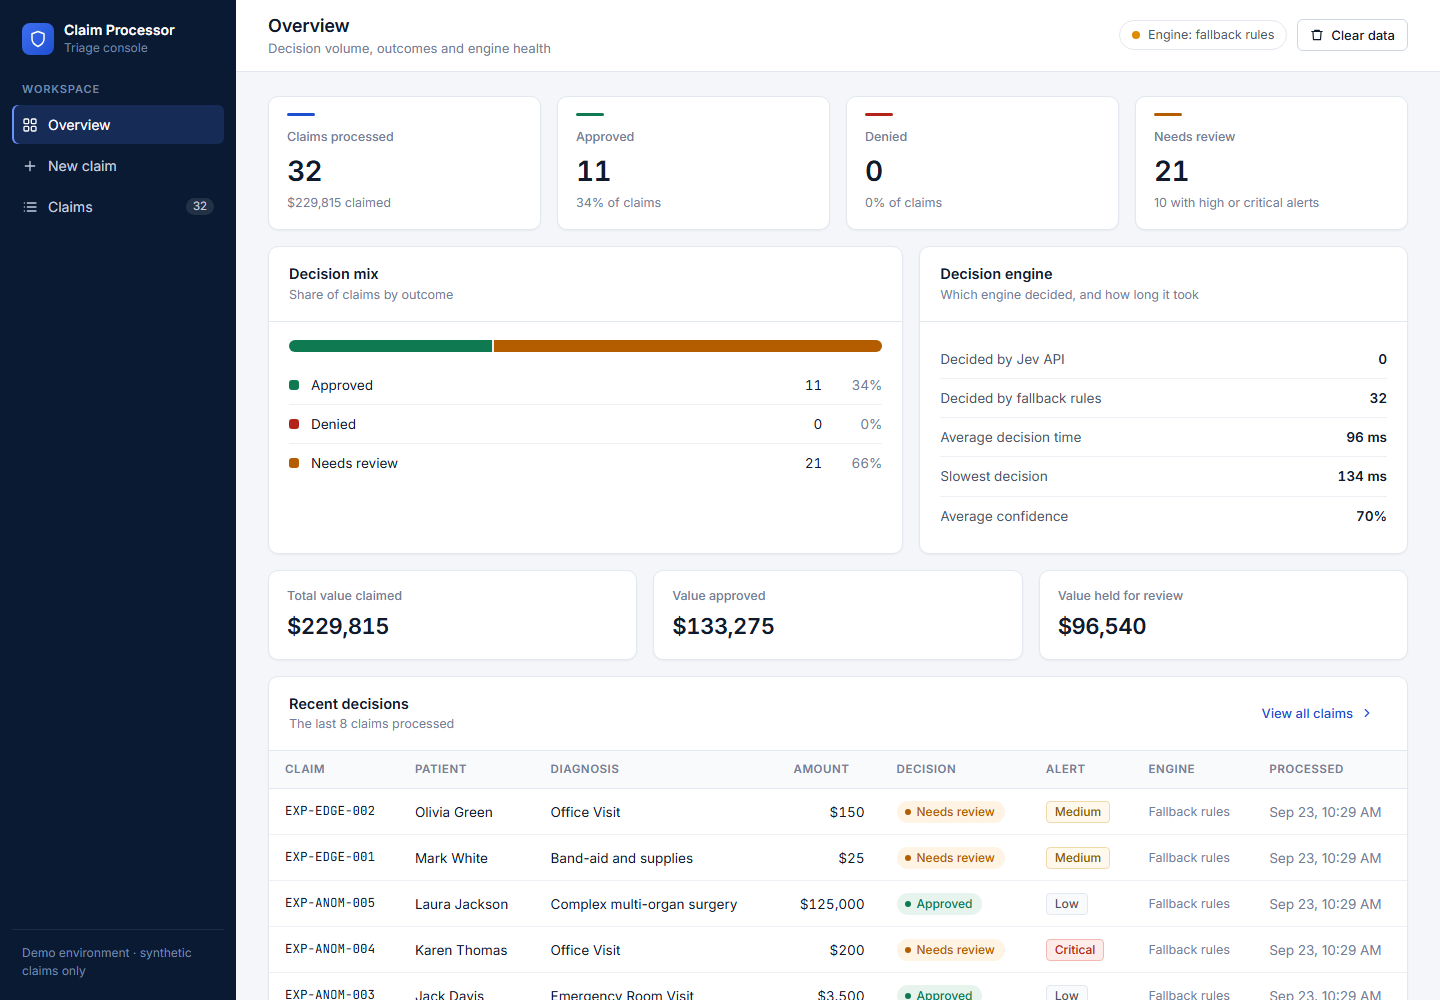
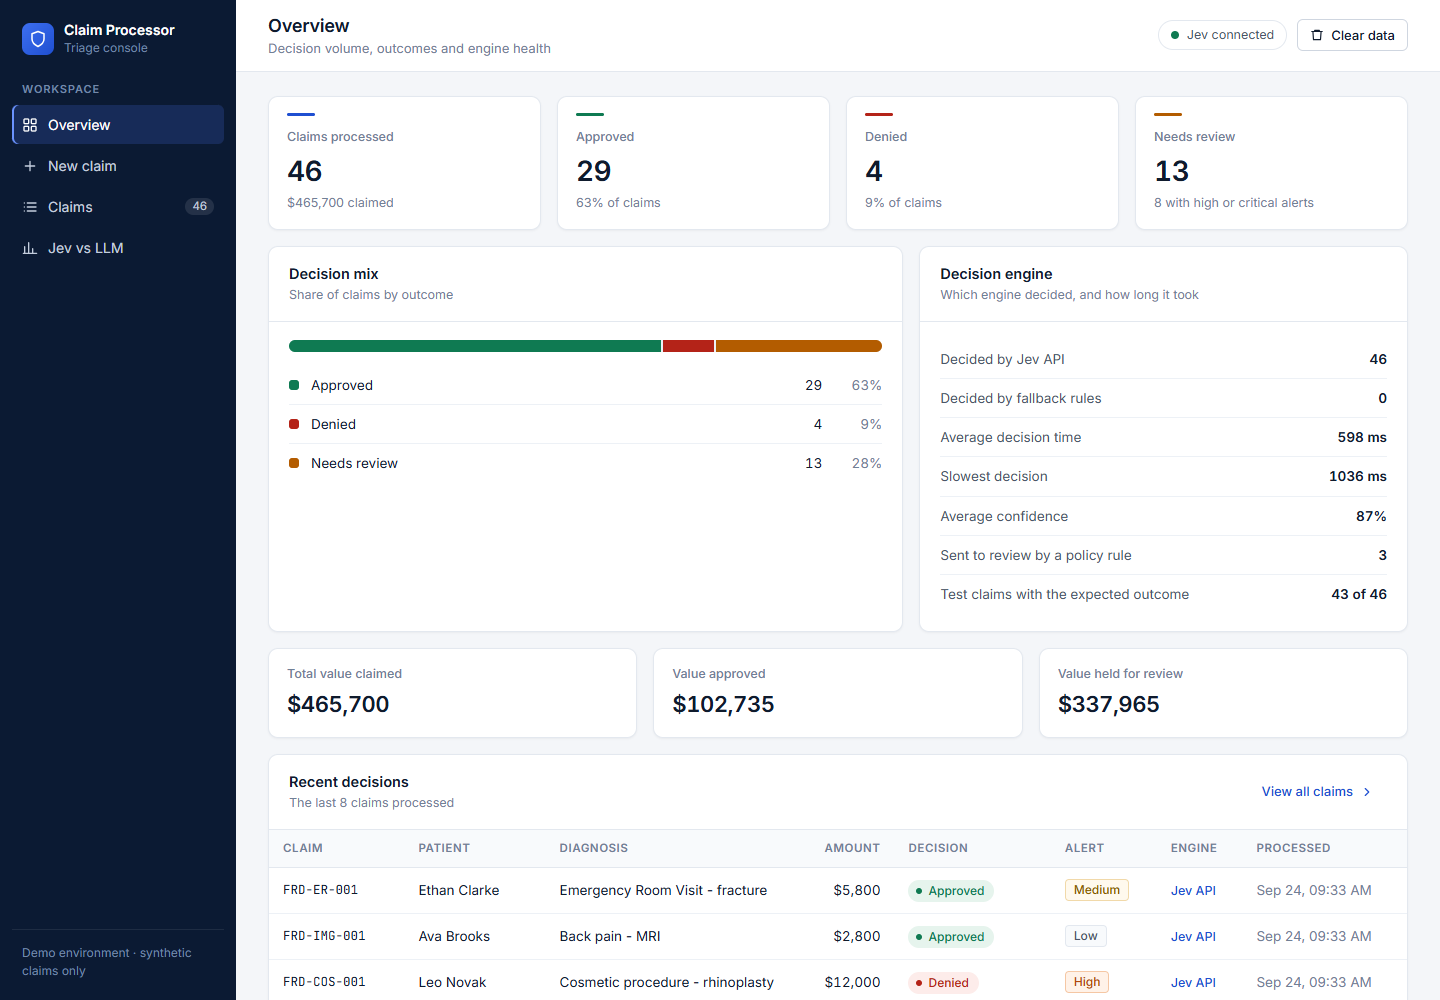
Refresh screenshots; fit claims tables on a laptop screen
- New screenshots of the Overview, an expanded claim on the Claims page,
  and the Jev vs LLM page, added to the README
- Claims table: move the Processed time into the expanded details so the
  table and its details fit at 1440 px without sideways scrolling
- Jev vs LLM claim table: combine latency and cost into Jev / LLM pairs
  with a small sub-label under each header
- Slightly tighter table padding, confidence bar and diagnosis column

diff --git a/frontend/src/index.css b/frontend/src/index.css
@@ -225,11 +225,11 @@ button { font: inherit; }
   text-align: left; white-space: nowrap;
   font-size: 11.5px; font-weight: 600; text-transform: uppercase; letter-spacing: 0.05em;
   color: var(--text-3); background: var(--surface-2);
-  padding: 10px 16px; border-bottom: 1px solid var(--border);
+  padding: 10px 14px; border-bottom: 1px solid var(--border);
 }
-.table td { padding: 11px 16px; border-bottom: 1px solid var(--border-soft); vertical-align: middle; white-space: nowrap; }
+.table td { padding: 11px 14px; border-bottom: 1px solid var(--border-soft); vertical-align: middle; white-space: nowrap; }
 .table tbody tr:last-child td { border-bottom: 0; }
-.table td.truncate { max-width: 240px; overflow: hidden; text-overflow: ellipsis; }
+.table td.truncate { max-width: 220px; overflow: hidden; text-overflow: ellipsis; }
 .table tr.clickable { cursor: pointer; }
 .table tr.clickable:hover td, .table tr.is-open td { background: var(--surface-2); }
 .chev { display: inline-grid; color: var(--text-3); transition: transform 0.15s; }
@@ -259,7 +259,7 @@ button { font: inherit; }
 .engine-rules { color: var(--text-3); }
 
 .conf { display: inline-flex; align-items: center; gap: 8px; }
-.conf-track { width: 60px; height: 6px; border-radius: 3px; background: var(--border-soft); overflow: hidden; }
+.conf-track { width: 48px; height: 6px; border-radius: 3px; background: var(--border-soft); overflow: hidden; }
 .conf-fill { display: block; height: 100%; background: var(--primary); }
 .conf-val { font-size: 12.5px; color: var(--text-2); font-variant-numeric: tabular-nums; width: 32px; }
 
@@ -371,6 +371,7 @@ input[readonly] { background: var(--surface-2); color: var(--text-2); }
 .compare-run:last-child { border-bottom: 0; }
 .compare-agree { display: flex; gap: 28px; flex-wrap: wrap; font-size: 13.5px; color: var(--text-2); border-top: 1px solid var(--border); }
 .compare-agree strong { color: var(--text); }
+.th-sub { font-size: 10.5px; font-weight: 500; text-transform: none; letter-spacing: 0; color: var(--text-3); margin-top: 1px; }
 .row-strong td { font-weight: 600; background: var(--surface-2); }
 .small { font-size: 12px; }
 .truncate-block { max-width: 220px; overflow: hidden; text-overflow: ellipsis; }

diff --git a/frontend/src/components/Compare.js b/frontend/src/components/Compare.js
@@ -338,9 +338,9 @@ function Compare({ apiUrl }) {
                 <thead>
                   <tr>
                     <th>Claim</th><th>Jev</th><th>{llmName}</th><th>Agree</th>
-                    <th className="num">Jev tokens</th><th className="num">{llmName} in / out</th>
-                    <th className="num">Jev ms</th><th className="num">{llmName} ms</th>
-                    <th className="num">Jev cost</th><th className="num">{llmName} cost</th>
+                    <th className="num">Jev tokens</th><th className="num">{llmName} tokens<div className="th-sub">in / out</div></th>
+                    <th className="num">Latency ms<div className="th-sub">Jev / {llmName}</div></th>
+                    <th className="num">Cost<div className="th-sub">Jev / {llmName}</div></th>
                   </tr>
                 </thead>
                 <tbody>
@@ -362,10 +362,8 @@ function Compare({ apiUrl }) {
                       </td>
                       <td className="num">{r.jev.ok ? num(r.jev.usage.inputTokens) : '—'}</td>
                       <td className="num">{r.llm.ok ? `${num(r.llm.usage.inputTokens)} / ${num(r.llm.usage.outputTokens)}` : '—'}</td>
-                      <td className="num">{r.jev.ok ? num(r.jev.latencyMs) : '—'}</td>
-                      <td className="num">{r.llm.ok ? num(r.llm.latencyMs) : '—'}</td>
-                      <td className="num">{r.jev.ok ? perClaim(r.jev.costUsd) : '—'}</td>
-                      <td className="num">{r.llm.ok ? perClaim(r.llm.costUsd) : '—'}</td>
+                      <td className="num">{r.jev.ok ? num(r.jev.latencyMs) : '—'} / {r.llm.ok ? num(r.llm.latencyMs) : '—'}</td>
+                      <td className="num">{r.jev.ok ? perClaim(r.jev.costUsd) : '—'} / {r.llm.ok ? perClaim(r.llm.costUsd) : '—'}</td>
                     </tr>
                   ))}
                 </tbody>

diff --git a/frontend/src/components/ClaimsList.js b/frontend/src/components/ClaimsList.js
@@ -91,7 +91,6 @@ function ClaimsList({ decisions, onNavigate }) {
                 <th>Alert</th>
                 <th>Confidence</th>
                 <th>Engine</th>
-                <th>Processed</th>
               </tr>
             </thead>
             <tbody>
@@ -115,11 +114,10 @@ function ClaimsList({ decisions, onNavigate }) {
                       <td><AlertTag level={d.alertLevel} /></td>
                       <td><Confidence value={d.confidence} /></td>
                       <td><EngineTag usedRealAPI={d.usedRealAPI} /></td>
-                      <td className="muted">{dateTime(d.processedAt)}</td>
                     </tr>
                     {open && (
                       <tr className="detail-row">
-                        <td colSpan={10}>
+                        <td colSpan={9}>
                           <ClaimDetail d={d} />
                         </td>
                       </tr>
@@ -169,6 +167,7 @@ function ClaimDetail({ d }) {
             <dt>Confidence</dt><dd>{Math.round((d.confidence || 0) * 100)}%</dd>
             <dt>Alert level</dt><dd><AlertTag level={d.alertLevel} /></dd>
             <dt>Decision time</dt><dd>{duration(d.processingTimeMs || 0)}</dd>
+            <dt>Processed</dt><dd>{dateTime(d.processedAt)}</dd>
             {c.expectedDecision && (
               <>
                 <dt>Test expected</dt>

diff --git a/README.md b/README.md
@@ -36,6 +36,10 @@ The side bar has three pages. Each has its own URL, so links and the browser's b
 - **Claims** (`#/claims`): search, filter by outcome, and expand a row to see the assessment, engine, policy rules and reasons. After loading test data, an **Unexpected** filter appears if any claim got an outcome other than the expected one.
 - **Jev vs LLM** (`#/compare`): run the test datasets through Jev and an LLM side by side. See [Jev vs LLM comparison](#jev-vs-llm-comparison).
 
+![The Claims page with one claim expanded](docs/app-claims.png)
+
+*The Claims page. An expanded claim shows the assessment, Jev's probability for each outcome, the policy rule that sent it to review, and the reasons.*
+
 The chip in the top bar shows the engine's state: **Jev connected**, **Jev ready**, **Jev unavailable**, **Jev not configured**, or **Jev off**. Hover over it for details.
 
 ## How decisions are made
@@ -127,6 +131,8 @@ The expected outcomes are what the fallback rules produce, and the automated tes
 ## Jev vs LLM comparison
 
 The **Jev vs LLM** page, and `compare-llm.js` in a terminal, send each test claim to Jev and to an LLM at the same time, then compare tokens, latency, cost and answers.
+
+![The Jev vs LLM page](docs/app-compare.png)
 
 - **Same task for both.** The LLM gets the same claim fields, the same six questions, and the same allowed answers with their descriptions. It must reply with a strict JSON object and no explanation text, the smallest output an LLM can give, so the comparison is as favourable to the LLM as it can be.
 - **Providers.** Claude through the Anthropic SDK (structured outputs, effort `low`, refusal fallbacks on), or OpenAI through the Responses API (strict JSON schema). Choose with `LLM_PROVIDER`.
@@ -234,7 +240,7 @@ Jev/
 │       ├── App.js           # Layout, navigation, engine status, notices
 │       ├── index.css        # All styles and colour tokens
 │       └── components/      # Overview, New claim, Claims, Jev vs LLM, badges, icons, formatting
-├── docs/                    # Diagrams (HTML source + PNG) and a screenshot
+├── docs/                    # Diagrams (HTML source + PNG) and app screenshots
 ├── data/                    # claims, decisions and comparisons (created at runtime, not committed)
 ├── sample-claims.json       # Test datasets with expected outcomes
 ├── load-samples.js          # Load a dataset from the terminal
